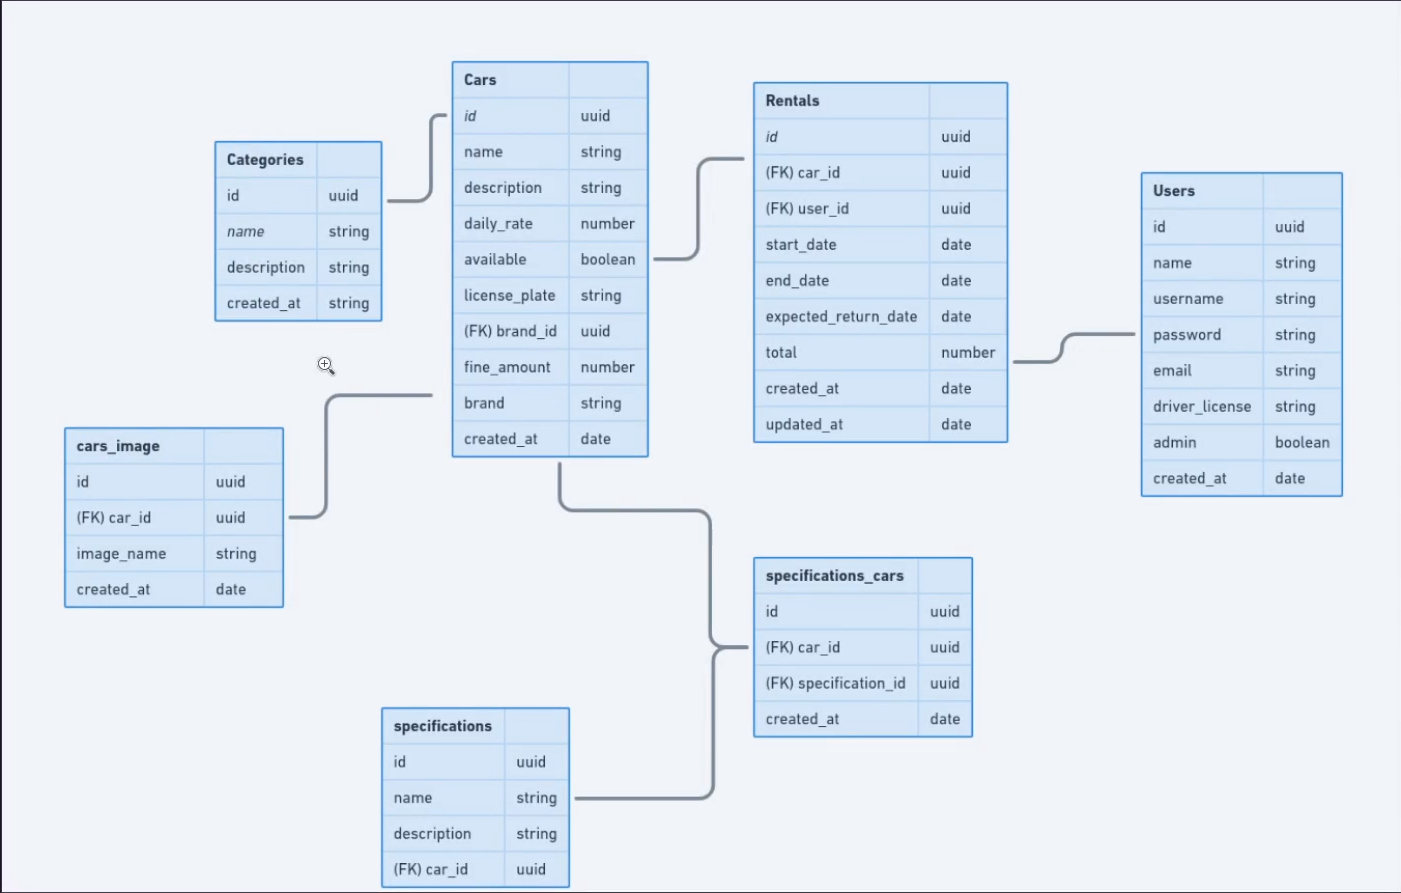
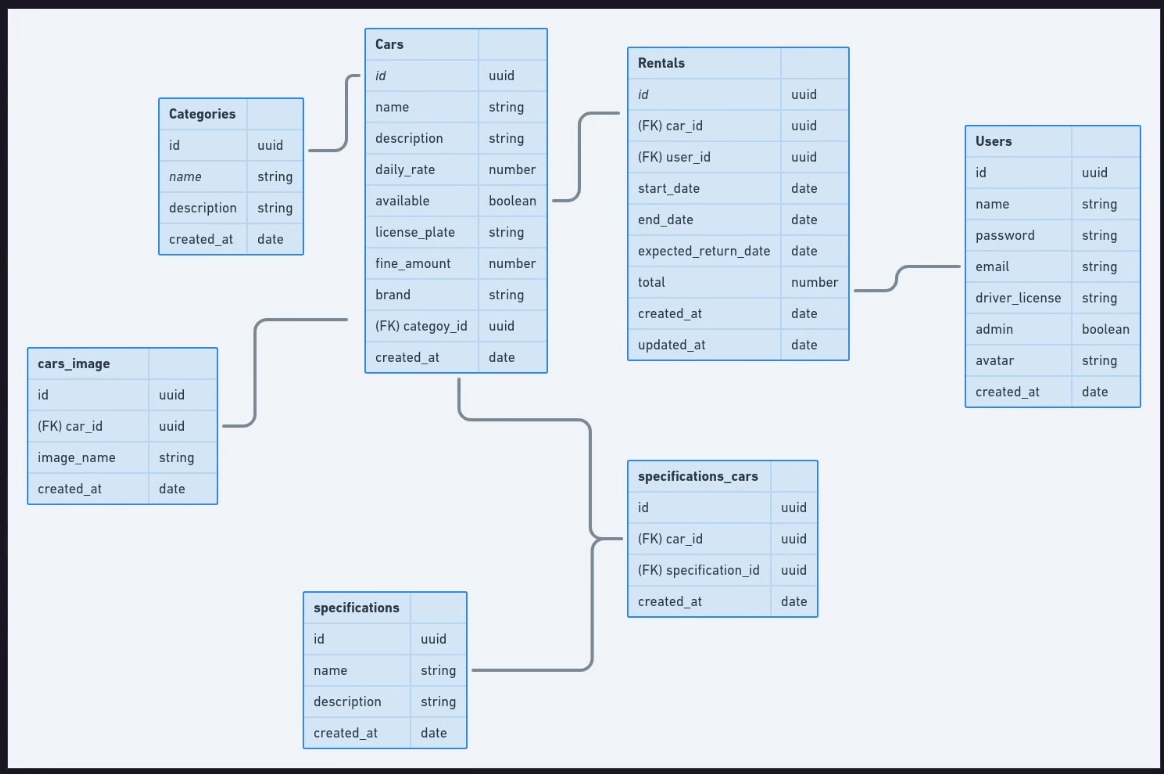
primeira parte da criacao de carros

Changed region(s): [[0.0, 0.0, 1.0, 1.0], [0.4948, 0.5891, 0.7113, 0.8372]]

diff --git a/src/shared/infra/typeorm/migrations/1629591814289-CreateCars.ts b/src/shared/infra/typeorm/migrations/1629591814289-CreateCars.ts
@@ -1,0 +1,71 @@
+import { MigrationInterface, QueryRunner, Table } from "typeorm";
+
+export class CreateCars1629591814289 implements MigrationInterface {
+    public async up(queryRunner: QueryRunner): Promise<void> {
+        await queryRunner.createTable(
+            new Table({
+                name: "cars",
+                columns: [
+                    {
+                        name: "id",
+                        type: "uuid",
+                        isPrimary: true,
+                    },
+                    {
+                        name: "name",
+                        type: "varchar",
+                    },
+                    {
+                        name: "description",
+                        type: "varchar",
+                    },
+                    {
+                        name: "daily_rate",
+                        type: "numeric",
+                    },
+                    {
+                        name: "available",
+                        type: "boolean",
+                        default: true,
+                    },
+                    {
+                        name: "license_plate",
+                        type: "varchar",
+                    },
+                    {
+                        name: "fine_amount",
+                        type: "numeric",
+                    },
+                    {
+                        name: "brand",
+                        type: "varchar",
+                    },
+                    {
+                        name: "category_id",
+                        type: "uuid",
+                        isNullable: true,
+                    },
+                    {
+                        name: "created_at",
+                        type: "timestamp",
+                        default: "now()",
+                    },
+                ],
+                foreignKeys: [
+                    {
+                        name: "FKCategoryCar",
+                        referencedTableName: "categories",
+                        referencedColumnNames: ["id"],
+                        columnNames: ["category_id"],
+                        onDelete: "SET NULL",
+                        onUpdate: "SET NULL",
+                    },
+                ],
+            })
+        );
+    }
+
+    public async down(queryRunner: QueryRunner): Promise<void> {
+        await queryRunner.dropTable("cars");
+    }
+}

diff --git a/src/modules/cars/useCases/createCar/CreateCarUseCase.ts b/src/modules/cars/useCases/createCar/CreateCarUseCase.ts
@@ -1,0 +1,42 @@
+import { inject, injectable } from "tsyringe";
+
+import { ICarsRepository } from "@modules/cars/repositories/ICarsRepository";
+
+interface IRequest {
+    name: string;
+    description: string;
+    daily_rate: number;
+    license_plate: string;
+    fine_amount: number;
+    brand: string;
+    category_id: string;
+}
+
+@injectable()
+class CreateCarUseCase {
+    constructor(
+        @inject("CarsRepository")
+        private carsRepository: ICarsRepository
+    ) {}
+    async execute({
+        name,
+        description,
+        daily_rate,
+        brand,
+        category_id,
+        fine_amount,
+        license_plate,
+    }: IRequest): Promise<void> {
+        this.carsRepository.create({
+            name,
+            description,
+            daily_rate,
+            brand,
+            category_id,
+            fine_amount,
+            license_plate,
+        });
+    }
+}
+
+export { CreateCarUseCase };

diff --git a/jest.config.ts b/jest.config.ts
@@ -1,7 +1,7 @@
-// eslint-disable-next-line import/no-extraneous-dependencies
+/* eslint-disable import/no-extraneous-dependencies */
 import { pathsToModuleNameMapper } from "ts-jest/utils";
 
-import { compilerOptions } from "./tsconfig.json";
+// import { compilerOptions } from "./tsconfig.json";
 
 export default {
     bail: true,
@@ -10,9 +10,18 @@ export default {
 
     coverageProvider: "v8",
 
-    moduleNameMapper: pathsToModuleNameMapper(compilerOptions.paths, {
-        prefix: "<rootDir>/src/",
-    }),
+    moduleNameMapper: pathsToModuleNameMapper(
+        {
+            "@modules/*": ["modules/*"],
+            "@config/*": ["config/*"],
+            "@shared/*": ["shared/*"],
+            "@errors/*": ["errors/*"],
+            "@utils/*": ["utils/*"],
+        },
+        {
+            prefix: "<rootDir>/src/",
+        }
+    ),
 
     preset: "ts-jest",
 

diff --git a/src/modules/cars/useCases/createCar/CreateCarUseCase.spec.ts b/src/modules/cars/useCases/createCar/CreateCarUseCase.spec.ts
@@ -1,0 +1,25 @@
+import { CarsRepositoryInMemory } from "@modules/cars/repositories/in-memory/CarsRepositoryInMemory";
+
+import { CreateCarUseCase } from "./CreateCarUseCase";
+
+let createCarUseCase: CreateCarUseCase;
+let carsRepositoryInMemory: CarsRepositoryInMemory;
+
+describe("Create Car", () => {
+    beforeEach(() => {
+        carsRepositoryInMemory = new CarsRepositoryInMemory();
+        createCarUseCase = new CreateCarUseCase(carsRepositoryInMemory);
+    });
+
+    it("should be able to create a new car", async () => {
+        await createCarUseCase.execute({
+            name: "Name Car",
+            description: "Description Car",
+            daily_rate: 100,
+            license_plate: "ABC-1234",
+            fine_amount: 60,
+            brand: "Brand",
+            category_id: "category",
+        });
+    });
+});

diff --git a/src/modules/cars/repositories/in-memory/CarsRepositoryInMemory.ts b/src/modules/cars/repositories/in-memory/CarsRepositoryInMemory.ts
@@ -1,0 +1,30 @@
+import { ICreateCarDTO } from "@modules/cars/dtos/ICreateCarDTO";
+import { Car } from "@modules/cars/infra/typeorm/entities/Car";
+
+import { ICarsRepository } from "../ICarsRepository";
+
+class CarsRepositoryInMemory implements ICarsRepository {
+    cars: Car[] = [];
+    async create({
+        brand,
+        category_id,
+        daily_rate,
+        description,
+        fine_amount,
+        license_plate,
+        name,
+    }: ICreateCarDTO): Promise<void> {
+        const car = new Car();
+        Object.assign(car, {
+            brand,
+            category_id,
+            daily_rate,
+            description,
+            fine_amount,
+            license_plate,
+            name,
+        });
+    }
+}
+
+export { CarsRepositoryInMemory };

diff --git a/src/modules/cars/infra/typeorm/entities/Car.ts b/src/modules/cars/infra/typeorm/entities/Car.ts
@@ -1,0 +1,23 @@
+class Car {
+    id: string;
+
+    name: string;
+
+    description: string;
+
+    daily_rate: number;
+
+    available: boolean;
+
+    license_plate: string;
+
+    fine_amount: number;
+
+    brand: string;
+
+    category_id: string;
+
+    created_at: Date;
+}
+
+export { Car };

diff --git a/src/modules/cars/dtos/ICreateCarDTO.ts b/src/modules/cars/dtos/ICreateCarDTO.ts
@@ -1,0 +1,10 @@
+interface ICreateCarDTO {
+    name: string;
+    description: string;
+    daily_rate: number;
+    license_plate: string;
+    fine_amount: number;
+    brand: string;
+    category_id: string;
+}
+export { ICreateCarDTO };

diff --git a/src/shared/infra/http/server.ts b/src/shared/infra/http/server.ts
@@ -1,4 +1,4 @@
-import express, { NextFunction, Request, response, Response } from "express";
+import express, { NextFunction, Request, Response } from "express";
 import "express-async-errors";
 import swaggerUi from "swagger-ui-express";
 

diff --git a/src/modules/cars/repositories/ICarsRepository.ts b/src/modules/cars/repositories/ICarsRepository.ts
@@ -1,0 +1,7 @@
+import { ICreateCarDTO } from "../dtos/ICreateCarDTO";
+
+interface ICarsRepository {
+    create(data: ICreateCarDTO): Promise<void>;
+}
+
+export { ICarsRepository };

diff --git a/README.md b/README.md
@@ -1,0 +1,64 @@
+# Cadastro de carro
+**Requisito funcional**
+
+Deve ser possível cadastrar um novo carro
+Deve ser possível listar todas as categorias.
+
+**Regra de negócio**
+
+Não deve ser possível cadastrar um carro com uma placa já existente.
+Não deve ser possível alterar a placa de um carro já cadastrado.
+O carro deve ser cadastrado, por padrão, com disponibilidade.
+O usuário responsável pelo cadastro deve ser um usuário administrador.
+
+# Listagem de carros
+**Requisito funcional**
+
+Deve ser possível listar todos os carros disponíveis.
+Deve ser possível listar todos os carros disponível pelo nome da categoria
+Deve ser possível listar todos os carros disponível pelo nome da marca
+Deve ser possível listar todos os carros disponível pelo nome do carro
+
+**Regra de negócio**
+
+O usuário não precisa estar logado no sistema.
+
+# Cadastro de especificação no carro
+**Requisito funcional**
+
+Deve ser possível cadastrar uma especificação para um carro
+Deve ser possível listar todas as especificações
+Deve ser possível listar todos os carros
+
+**Regra de negócio**
+
+Não deve ser possível cadastrar uma especificação para um carro não cadastrado
+Não deve ser possível cadastrar uma especificação já existente para o mesmo carro.
+O usuário responsável pelo cadastro deve ser um usuário administrador.
+
+# Cadastro de imagens do carro
+**Requisito funcional**
+
+Deve ser possível cadastrar a imagem do carro
+Deve ser possível listar todos os carros
+
+**Requisito não funcional**
+
+Utilizar o multer para upload dos arquivos
+
+**Regra de negócio**
+
+O usuário deve poder cadastrar mais de uma imagem para o mesmo carro
+O usuário responsável pelo cadastro deve ser um usuário administrador.
+
+# Aluguel de carro
+
+**Requisito funcional**
+
+Deve ser possível cadastrar um aluguel
+
+**Regra de negócio**
+
+O aluguel deve ter duração miníma de 24 Horas.
+Não deve ser possível cadastrar um novo aluguel caso já exista um aberto para o mesmo usuário.
+Não deve ser possível cadastrar um novo aluguel caso já exista um aberto para o mesmo carro.
